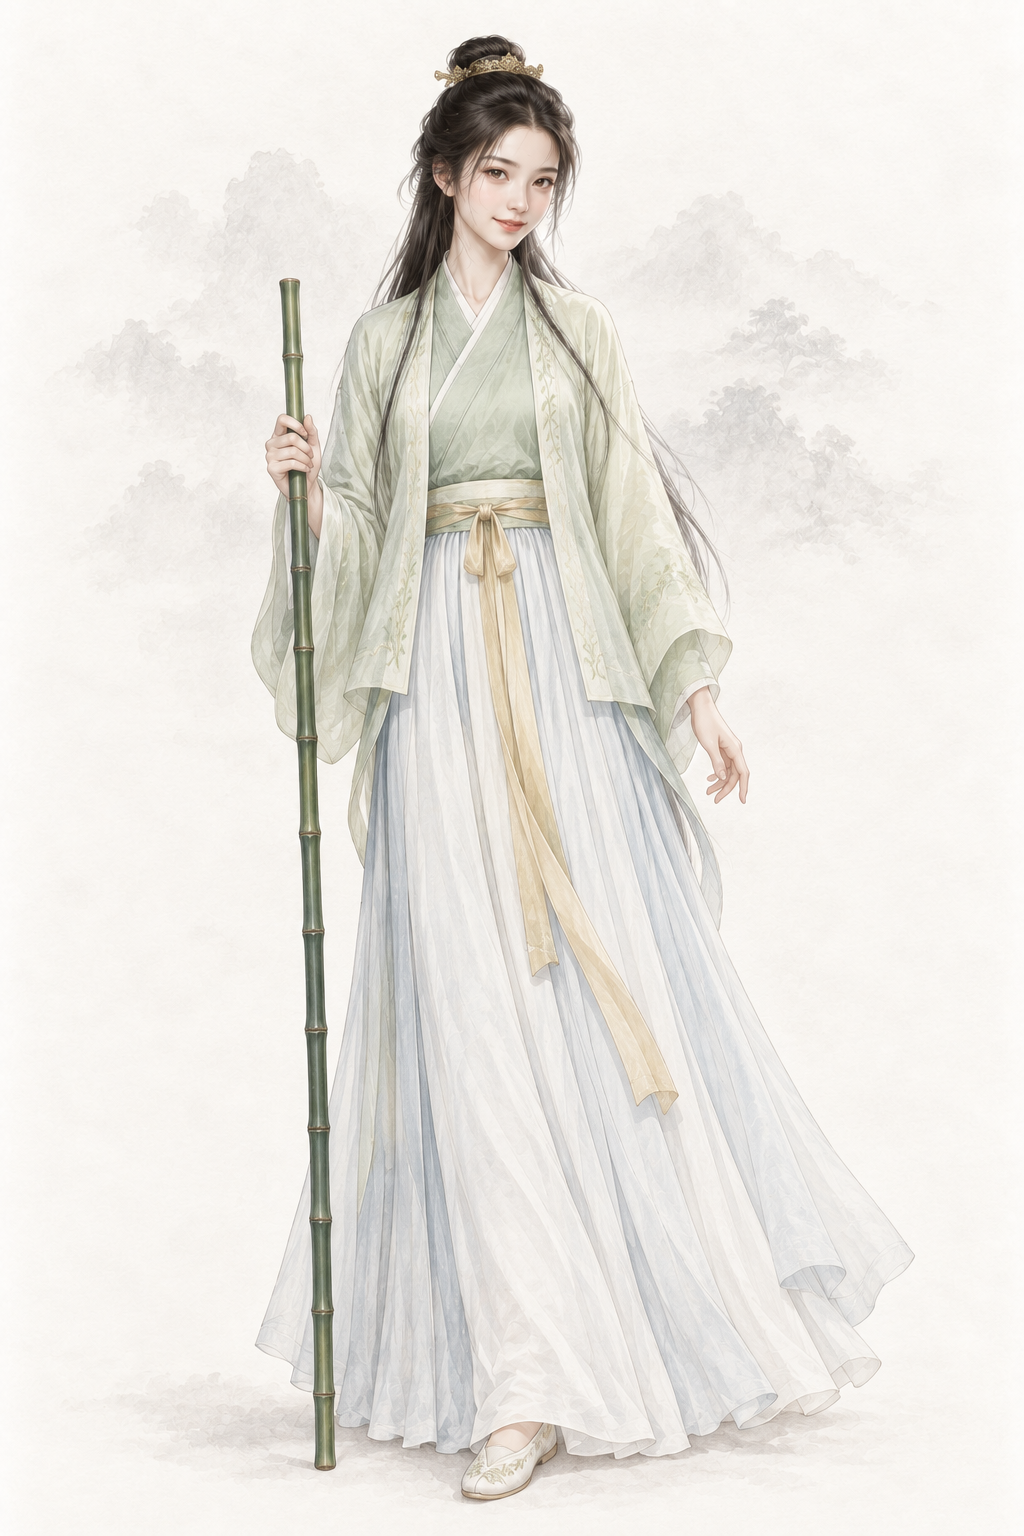
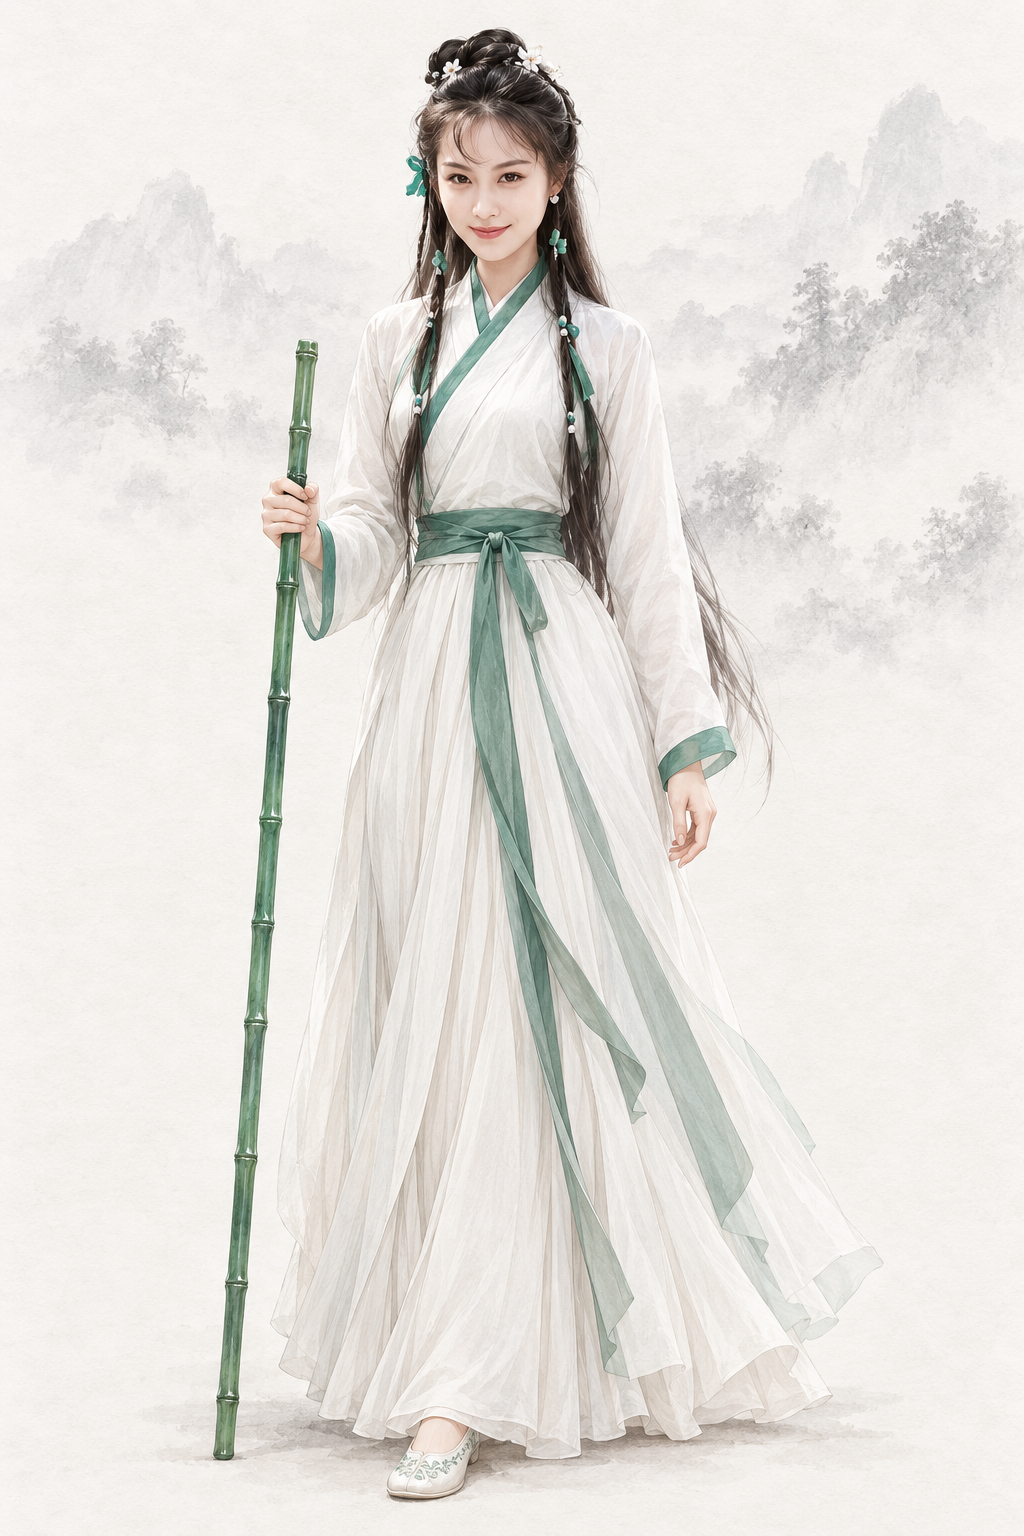
assets(character): por_npc_huangrong__ch02_youth_bangzhu_base 黄蓉（codex，AR-32 经典版）
参考 1994 年 TVB 张智霖、朱茵版《射雕英雄传》（黄蓉取朱茵版气质，AR-30 / AR-32） 剧照与项目基线重出；剧照只作出图参考，不入库。

diff --git a/assets/default/prompts/characters/ch02-shediao/npc_huangrong.md b/assets/default/prompts/characters/ch02-shediao/npc_huangrong.md
@@ -19,15 +19,45 @@ references:
   use: 已实际查看的用户水墨参考，只取背景淡墨山水和留白，忽略人物脸、皮肤、衣服与体态。
 status: redo
 realism_revision: user_identity_pose_20261001
-redo_reason: "作者指定黄蓉两书统一并按指定气质重塑：现图近乎复刻 1983 版演员，改以文字刻画灵动大眼、圆润鹅蛋脸、俏皮狡黠的原创面孔，绿衫金环、打狗棒，连同五幅场景，并作神雕黄蓉的身份参考"
+redo_reason: "AR-32：主要角色参考经典影视版剧照（1994 年版）加基线重出（10-02，7 号出图员）"
 reference_upload:
+- .agents/coord/imagegen-reference/identity-20261002/shediao/huangrong_1994_zhuyin_sohu2025a.jpg
+- .agents/coord/imagegen-reference/identity-20261002/shediao/huangrong_1994_zhuyin_sohu2025b.jpg
 - assets/default/baseline/character/female/ref_npc_wangyuyan__ch01_base01.png
+- assets/default/baseline/character/female/ref_npc_xiaolongnv__ch03_base01.png
 codex_prompt_rev: 2026-10-02
+classic_ref:
+  version: 1994 年 TVB 张智霖、朱茵版《射雕英雄传》（黄蓉取朱茵版气质，AR-30 / AR-32）
+  actor: 朱茵
+  stills:
+  - .agents/coord/imagegen-reference/identity-20261002/shediao/huangrong_1994_zhuyin_sohu2025a.jpg
+  - .agents/coord/imagegen-reference/identity-20261002/shediao/huangrong_1994_zhuyin_sohu2025b.jpg
 ---
 
 # 黄蓉 · 人物写实修正
 
 ## Gemini 提示词
+
+> 2026-10-02 AR-32 改写（7 号出图员，codex exec · image_gen 出图）：主要角色参考经典影视版剧照重出——1994 年 TVB 张智霖、朱茵版《射雕英雄传》（黄蓉取朱茵版气质，AR-30 / AR-32）。按顺序上传剧照 2 张（huangrong_1994_zhuyin_sohu2025a.jpg、huangrong_1994_zhuyin_sohu2025b.jpg，在主检出 .agents/coord/imagegen-reference/identity-20261002/，不入库）取发型、服饰、配色、气质与面部特征，再上传两张同性别缩小版基线（放在最后）取画风；要求重新绘制成项目画风，不复制照片。提示词里不写演员名。上一版保留在后文作历史。
+
+```text
+生成一张 2:3 竖幅全身人物立绘：单人、单一视角、完整全身——头顶、双手、双脚和手中器物的两端都在画面内，四周留出自然空白；人物站姿自然，身体基本朝向正面，头部端正（不歪头、不仰不俯），镜头平视。
+【画风】写实手绘古风人物插画，与本项目写实武侠角色立绘同一画风，像功力深厚的画师用细腻笔触画出的真实美人。手绘插画质感，不是 CG 渲染：不要过度光滑的皮肤、完美对称的五官、塑料高光、过度锐利的发丝；保留自然的笔触和细微不完美。肌肤细腻自然，看得见极细的肤理和自然的左右不对称，不磨皮、不油亮、不打粉；头发是一缕缕自然的发丝和少量碎发；布料看得出经纬纹理、厚薄和自然垂坠的褶皱，干净完整；整体设色低饱和、雅致；柔和的自然光从左上方照来，明暗过渡自然，不打舞台光、轮廓光或美颜柔光。不是照片，不是三维渲染，不是动漫或游戏 CG，也不是油画（没有厚涂笔触和画布纹理）。
+【背景】不透明的暖浅灰色纸底，只在远处有极淡的水墨远山和薄雾，大面积留白；人物与背景明暗分明、轮廓边缘干净完整（后续要自动抠图），水墨和纸纹只在背景里，不侵入人物和衣服；脚下只有很淡的一点接触阴影。
+【剧照参考】随提示词上传的第 1、2 张参考图是这个角色经典影视造型的剧照：借鉴其发型、服饰、配色、标志道具、气质和面部特征（脸型、眉眼、鼻唇的比例与神态），让人一眼认出是这个角色；但必须重新绘制成本项目画风的手绘写实插画，不要照片质感，不要照搬剧照的构图、取景、光影、背景和姿势，也不要做成照片修图或磨皮美颜；剧照里的影楼柔光、浓妆、字幕和水印都不要。最后两张是本项目画风基线：画风、用色、光线、质感和暖浅灰纸底加淡水墨背景以它们为准。
+【人物】黄蓉，《射雕英雄传》南宋桃花岛主黄药师的独生女，君山大会后接任丐帮帮主的阶段；聪明绝顶、古灵精怪、俏皮狡黠，又真心护着郭靖。
+【年龄与体态】原著十五六岁，按本作规定画成约二十岁的成年年轻女子，身材纤秀匀称、体态轻盈灵动。成年女性的五官骨相与身体比例（约 7 头身），衣着完整端庄、不透明、不暴露、不性感化。
+【经典造型】照剧照里这一版深入人心的黄蓉来画：一双大眼睛顾盼生辉，笑起来眉眼弯弯、嘴角翘起，甜美里带着狡黠和机灵，浑身透着灵气；中分的乌黑长发半挽，额前几缕碎刘海，两侧编着缀小珍珠的细辫、系着翠绿色发带；一身素白衣裙配翠绿镶边；手握碧绿竹棒。
+【面容】照剧照的脸型和五官来画：柔和的鹅蛋脸、两颊饱满、下巴小巧圆润；一双黑白分明的大眼睛，双眼皮、眼尾微微上挑，亮晶晶的满是灵气；眉毛细长弯弯；鼻梁小巧挺直；嘴唇饱满、嘴角天生上翘，似笑非笑带着俏皮；肌肤白皙透亮、两颊自然红润，妆容清淡。美丽动人、灵气逼人，让人一见就喜欢。
+【发式】乌黑长发中分，头顶一小半挽成小髻，插两朵小小的白色珠花；额前几缕轻薄的碎刘海；两鬓各编几条缀着小珍珠的细辫垂到胸前，辫梢系着翠绿色的发带；其余长发披在背后。
+【服饰】素白色交领右衽窄袖衫裙，领缘与袖口镶一道翠绿色缎边，腰系翠绿色丝绦，平底绣鞋；衣料轻柔，干净雅致。
+【道具】右手握一根碧绿通透的竹棒（丐帮打狗棒，约齐肩高，竹节清楚，像碧玉一样），棒梢轻点地面。
+【姿态与神情】正面站立、重心略偏、一只脚轻轻点地，头部端正；眼神灵动带笑，嘴角翘起，像刚想到一个鬼主意。
+【不要】画面里不要任何文字、题款、印章、签名、水印、边框、分格或多视图；不要第二个人；不要幼态（童颜、娃娃脸、婴儿肥、儿童或少年身材、大头小身）；不要塑料感皮肤、磨皮美颜、网红脸（尖下巴大眼高鼻的模板脸）、过度对称、浓妆、偶像式打光、蜡像感；不要照片质感、照片修图感、三维渲染或动漫大眼；不要直接复制剧照的画面；不要歪头、斜镜头；不要多指、缺指（设定的伤残除外）、手与器物粘连或悬空；汉式交领必须右衽（穿着者的左襟压在右襟上），不要左衽（设定为少数民族服制的除外），不要水平镜像；不要现代物品、发光特效、法阵或能量光。不要粉色或桃色衣裙；不要网红尖下巴、厚重眼妆、艳丽红唇；不要双丫髻或孩子气的发饰；不要少女或儿童身材；不要与赵敏、周芷若、小龙女撞脸。
+【画风基线】随提示词上传的参考图里，最后两张是本项目的立绘画风基线：只参考它们的画风、用色、光线、质感和暖浅灰纸底加淡水墨的背景处理，整体画风必须与它们一致——精细写实的数字手绘插画，不是油画，不要厚涂笔触和画布纹理。基线图只取画风、光线、质感和背景处理，不取长相：不要照搬基线图里人物的长相、年龄、发型、服饰和姿势。
+```
+
+## 上一版 Gemini 提示词（AR-32 改写前，历史，不再用于出图）
 
 > 2026-10-02 AR-31 改写（1 号出图员，codex exec · image_gen 出图）：重要人物借鉴经典影视造型，只写成文字——不写演员名、不上传剧照、原创面孔；主角和美人画得好看，去 AI 味，禁止幼态。出图时上传两张同性别基线立绘作画风参考（放在最后）。审核组原稿保留在下一节作历史。
 
